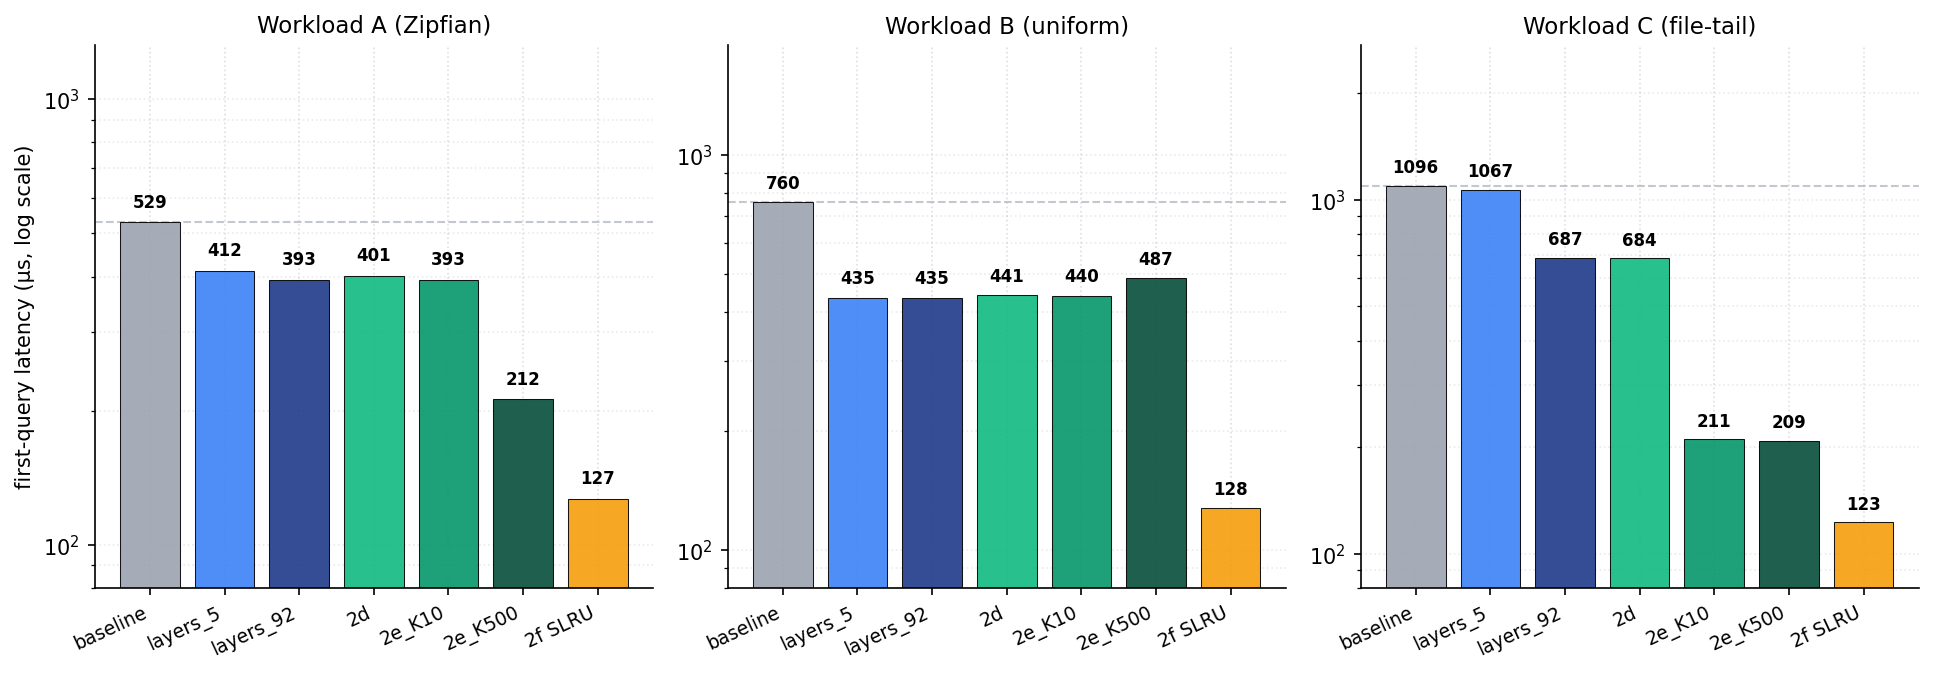
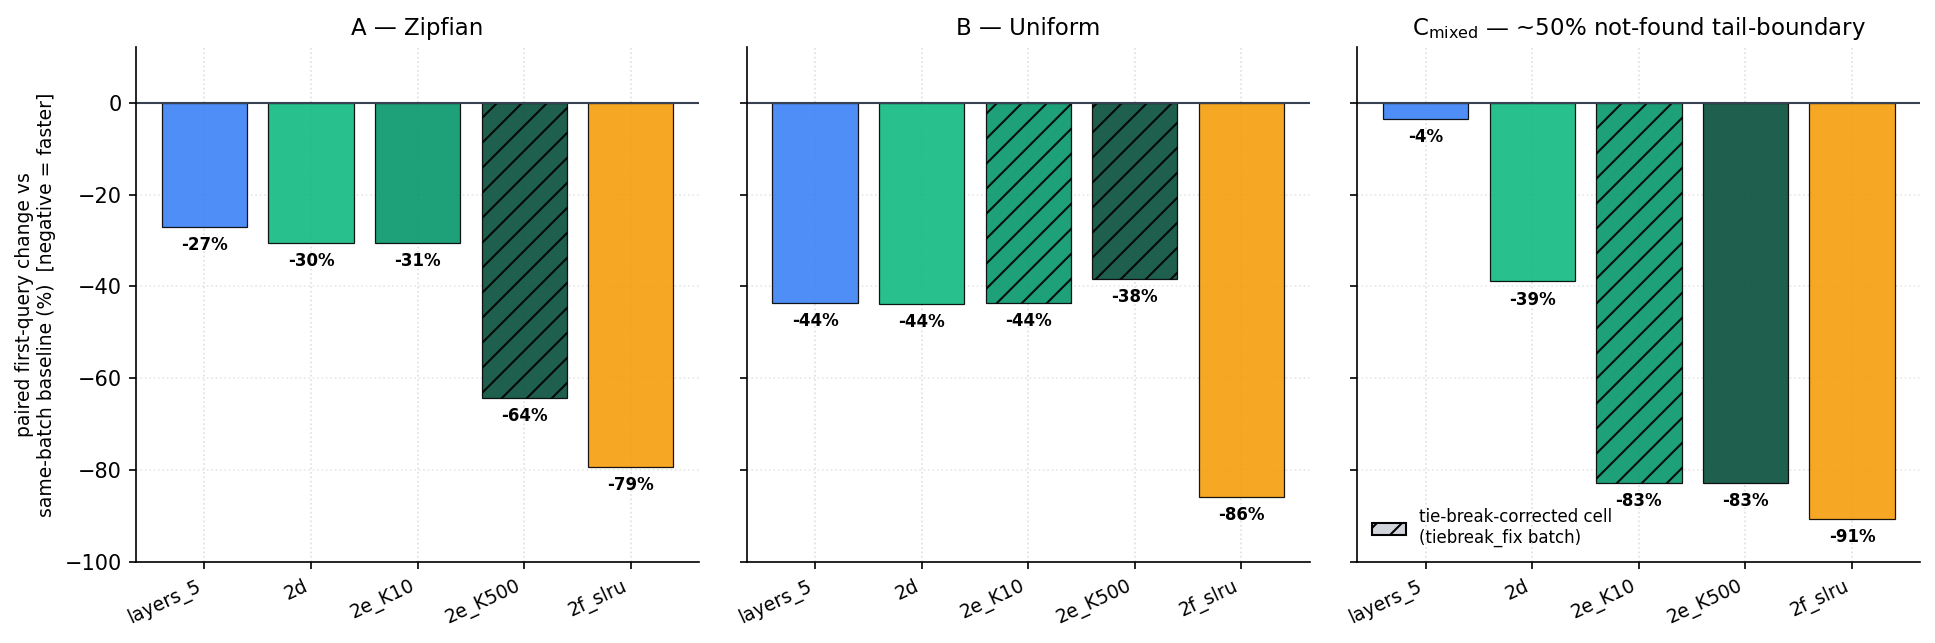
paper: regenerate canonical cost-accounting figures
Phase 3 figure regeneration (no benchmark rerun, no CSV change):

- Figure 13 (first-query): redesigned as paired first-query reduction %,
  each bar normalized to its own same-batch baseline. Per-cell canonical
  source -- unified_v2 for tie-break-unaffected cells, tiebreak_fix for
  impact-set cells (hatched). No absolute microseconds; no v1 values
  (was baselines 529/760/1096, 2f_slru 127/128/123).
- Figure 14 (end-to-end): single-batch absolute stack (unified_v2)
  restricted to tie-break-unaffected arms (baseline, layers_5, 2d,
  2f_slru); corrected hotspot arms excluded and reported in
  tab:corrected-arms. C panel titled C_mixed (~50% not-found), no longer
  "churn-heavy". Warm % from same-batch baseline: A +1300%, B +879%,
  C -12%. Was v1 (+1248%/+843%/-73%).
- Figure 17 (ablation): the submodule copy was content-stale (2x2 render
  with pre-fix C leaf_freq ~-32% / 2e_K10 ~-73%); replaced with the
  current script's corrected orig-only render (ablation_comp_v2:
  leaf_freq -3% tie, 2e_K10 -55%).
- Captions/prose for fig 13/14 rewritten to the regenerated metrics;
  "regeneration pending" / pre-canonical / churn-heavy notes removed;
  corrected hotspot cells now point to tab:corrected-arms.

diff --git a/main.tex b/main.tex
@@ -478,11 +478,11 @@ The effectiveness of structural prefetching, \texttt{layers\_N}, depends on both
 \begin{figure*}[htbp]
 \centering
 \includegraphics[width=\textwidth]{figures/13_strategy_firstq_bars.png}
-\caption{First-query latency by strategy and workload (preprocessing not included), log scale. The cache-dump strategy \texttt{2f\_slru} achieves the lowest first-query latency across all three workloads (canonical 102 to 108 \textmu s); targeted strategies achieve reductions of $-27\%$ to $-83\%$ with substantially smaller hotsets. \emph{Note:} the rendered image still shows the pre-canonical single-instantiation batch (baselines 529/760/1096, \texttt{2f\_slru} 127/128/123 \textmu s); canonical baselines are 523/749/1087 \textmu s (Section~\ref{sec:eval-fq}). Figure regeneration is pending.}
+\caption{Paired first-query reduction by strategy and workload. Each bar is the median first-query change of a strategy versus \emph{its own same-batch baseline} (negative $=$ faster); absolute microseconds are not plotted and are not compared across batches. Tie-break-corrected cells (hatched: A \texttt{2e\_K500}; B \texttt{2e\_K10}/\texttt{2e\_K500}; C\_mixed \texttt{2e\_K10}) are read from \texttt{results/tiebreak\_fix} and normalized against that batch's baseline; all other cells are from \texttt{results/unified\_v2}. The cache-dump \texttt{2f\_slru} attains the largest first-query reduction on every workload ($-79\%$ to $-91\%$); Figure~\ref{fig:e2e-stacked} shows this does not translate into end-to-end wins.}
 \label{fig:firstq-bars}
 \end{figure*}
 
-Figure~\ref{fig:firstq-bars} visualizes the first-query latency across strategies and workloads. The cache-dump strategy \texttt{2f\_slru} is the clear leader in the first-query race, delivering 102 to 108 \textmu s across the three workloads, compared to baselines of 523 to 1087 \textmu s. Targeted strategies occupy the middle ground, with \texttt{2e\_K10} on workload C achieving the largest targeted first-query reduction ($-83\%$, corrected batch). The figure establishes the first-query rankings that Section~\ref{sec:eval-tradeoff} will revisit with end-to-end latency accounting.
+Figure~\ref{fig:firstq-bars} visualizes the paired first-query reductions across strategies and workloads (each bar normalized to its own same-batch baseline). The cache-dump strategy \texttt{2f\_slru} is the clear leader in the first-query race, cutting latency to 102 to 108 \textmu s from baselines of 523 to 1087 \textmu s (a $-79\%$ to $-91\%$ reduction); targeted strategies occupy the middle ground, with \texttt{2e\_K10} on C\_mixed the largest targeted first-query reduction ($-83\%$, corrected batch). The figure establishes the first-query rankings that Section~\ref{sec:eval-tradeoff} will revisit with end-to-end latency accounting.
 
 \subsection{The Preprocessing Trade-off}\label{sec:eval-tradeoff}
 
@@ -550,12 +550,12 @@ Section~\ref{sec:eval-robustness}), and on C it is robustly worse ($+5\%$). The 
 \begin{figure*}[htbp]
 \centering
 \includegraphics[width=\textwidth]{figures/14_strategy_endtoend_stacked.png}
-\caption{End-to-end cold-start latency across the two deployment models. Each bar stacks first-query latency (solid), prefetch deliver cost (yellow hatched), and the cold open(db) (grey cross-hatched); the full bar is $\text{e2e}_{\text{standalone}}$ and the bar without the grey segment is $\text{e2e}_{\text{warm}}$ (the cold open an integrated deployment avoids). Green labels are warm-process improvements over the same-workload baseline (leftmost bar); red labels are regressions. The A and B layers\_5 improvements are single-instantiation only and not cross-seed robust (Table~\ref{tab:e2e-ac}, \ref{sec:stats}). \emph{Note:} the rendered image still shows the pre-canonical single-instantiation batch (A \texttt{2f\_slru} $+1248\%$, B $+843\%$, C \texttt{2e\_K10} $-73\%$) and mislabels the C panel ``churn-heavy''; canonical values are in Table~\ref{tab:e2e-ac} (A $+1300\%$, B $+879\%$) and Table~\ref{tab:corrected-arms} (C \texttt{2e\_K10} $-75\%$). Figure regeneration is pending.}
+\caption{End-to-end cold-start decomposition across the two deployment models, from a single machine-state batch (\texttt{results/unified\_v2}; tie-break-unaffected strategies only: baseline, \texttt{layers\_5}, \texttt{2d}, \texttt{2f\_slru}). Each bar stacks first-query latency (solid), prefetch deliver cost (yellow hatched), and the cold open(db) (grey cross-hatched); the full bar is $\text{e2e}_{\text{standalone}}$ and the bar without the grey segment is $\text{e2e}_{\text{warm}}$ (the cold open an integrated deployment avoids). Green labels are warm-process improvements over the same-workload baseline (dashed line); red labels are regressions. The full dump \texttt{2f\_slru} regresses warm-process e2e by $+1300\%$ (A) and $+879\%$ (B); C\_mixed, whose working set is small, is the narrow exception ($-12\%$). The tie-break-corrected hotspot arms (A \texttt{2e\_K500}, C\_mixed \texttt{2e\_K10}) belong to a different batch and are reported in Table~\ref{tab:corrected-arms}, not stacked here. The A/B \texttt{layers\_5} improvements are single-instantiation only and not cross-seed robust (Table~\ref{tab:e2e-ac}, \S\ref{sec:stats}).}
 
 \label{fig:e2e-stacked}
 \end{figure*}
 
-Figure~\ref{fig:e2e-stacked} visualizes this trade-off. The stacked bars show the two deployment models: the full bar height is $\text{e2e}_{\text{standalone}}$, and removing the gray open segment yields $\text{e2e}_{\text{warm}}$. The gray segment is the cold open cost that an integrated deployment avoids. On workloads A and B, \texttt{2f\_slru} is far above the baseline red line, regressing by $+1300\%$ (A) and $+879\%$ (B) in the warm-process model. In contrast, the targeted strategies in the warm-process model sit below the baseline line for all three workloads, with improvements of $-11\%$ to $-14\%$ on A, $-29\%$ to $-34\%$ on B, and $-75\%$ on C. The $\ddagger$-marked \texttt{layers\_5} wins on A and B are not cross-seed robust, consistent with the verdicts in Table~\ref{tab:e2e-ac}.
+Figure~\ref{fig:e2e-stacked} visualizes this trade-off. The stacked bars show the two deployment models: the full bar height is $\text{e2e}_{\text{standalone}}$, and removing the gray open segment yields $\text{e2e}_{\text{warm}}$. The gray segment is the cold open cost that an integrated deployment avoids. On workloads A and B, \texttt{2f\_slru} rises far above the dashed baseline line, regressing by $+1300\%$ (A) and $+879\%$ (B) in the warm-process model. In contrast, the interior skeleton \texttt{2d} sits below the baseline in the warm-process model on all three workloads ($-14\%$ on A, $-32\%$ on B, $-32\%$ on C\_mixed); the corrected hotspot arm \texttt{2e\_K10} reaches a larger $-75\%$ on C\_mixed but belongs to a separate machine-state batch (Table~\ref{tab:corrected-arms}) and is not part of this same-batch stack. The \texttt{layers\_5} wins on A and B are single-instantiation only and not cross-seed robust, consistent with the verdicts in Table~\ref{tab:e2e-ac}.
 
 Three conclusions follow. First, the cache-dump approach \texttt{2f\_slru} demonstrates that minimizing first-query latency does not guarantee end-to-end acceleration; its deliver overhead of 0.8 to 7 ms dominates the critical path. Second, the deployment model determines the end-to-end verdict. In the standalone model, the cold open cost eliminates the benefit on fast workloads; in the warm-process model, which we advocate for serverless keep-alive and edge worker deployments, the targeted strategies improve end-to-end latency across all three workloads. Third, the open cost is not a prefetch tax but a deployment constant; it shifts the zero point between the two models but never determines the relative performance of prefetch strategies within either model.
 
